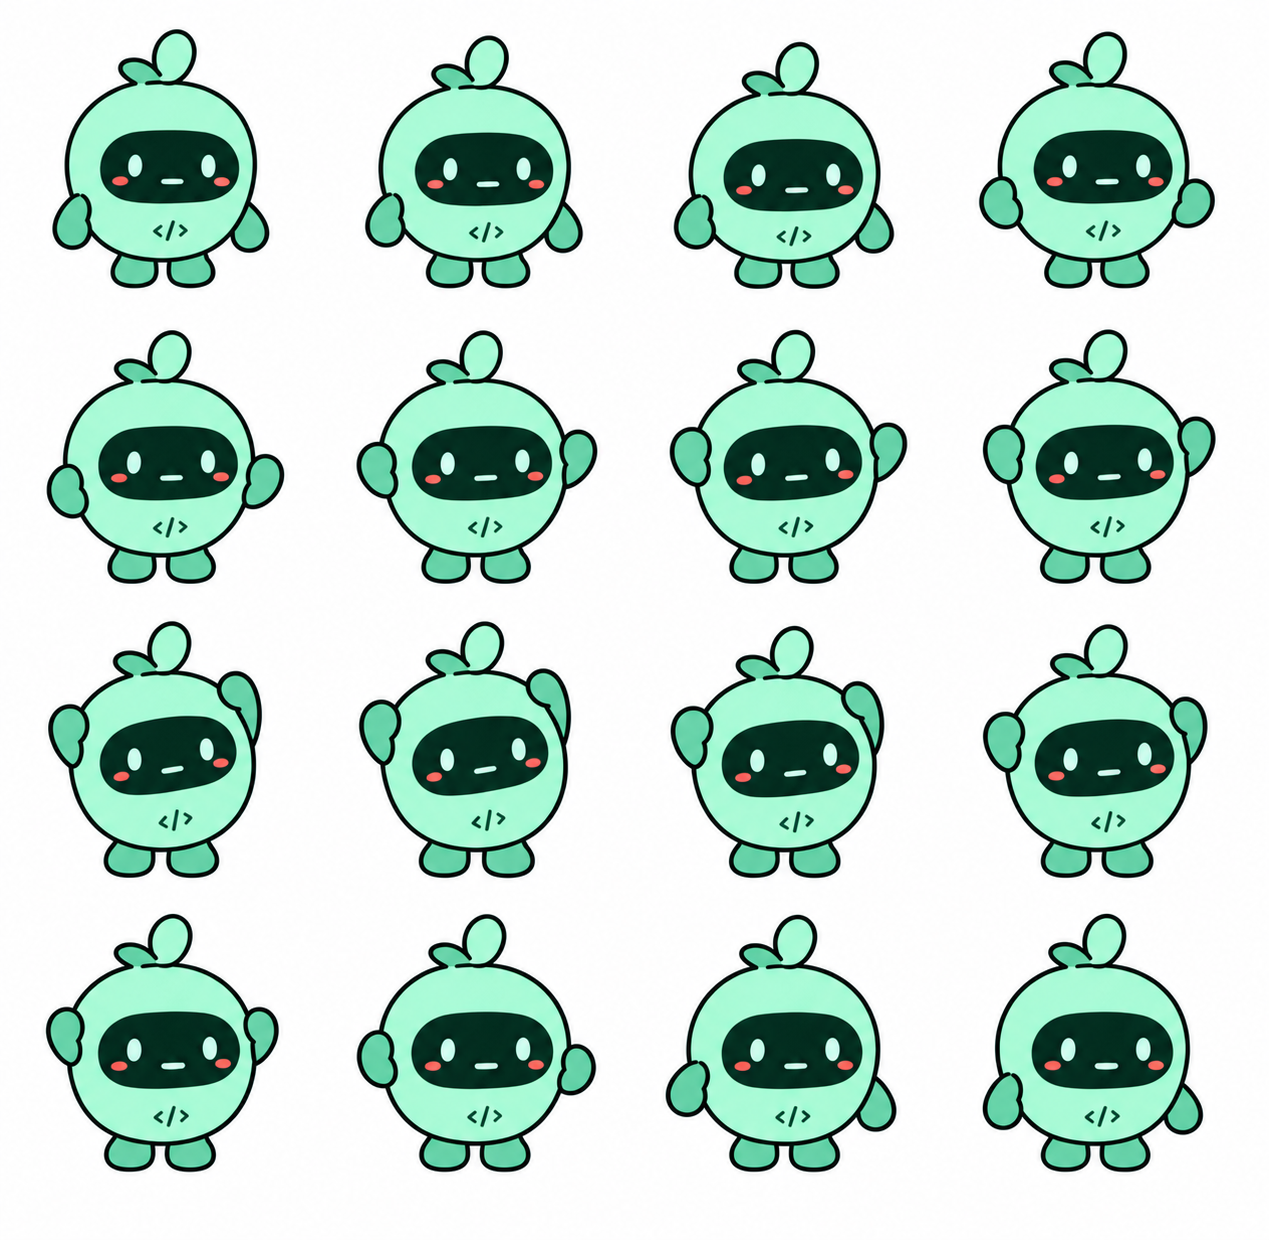
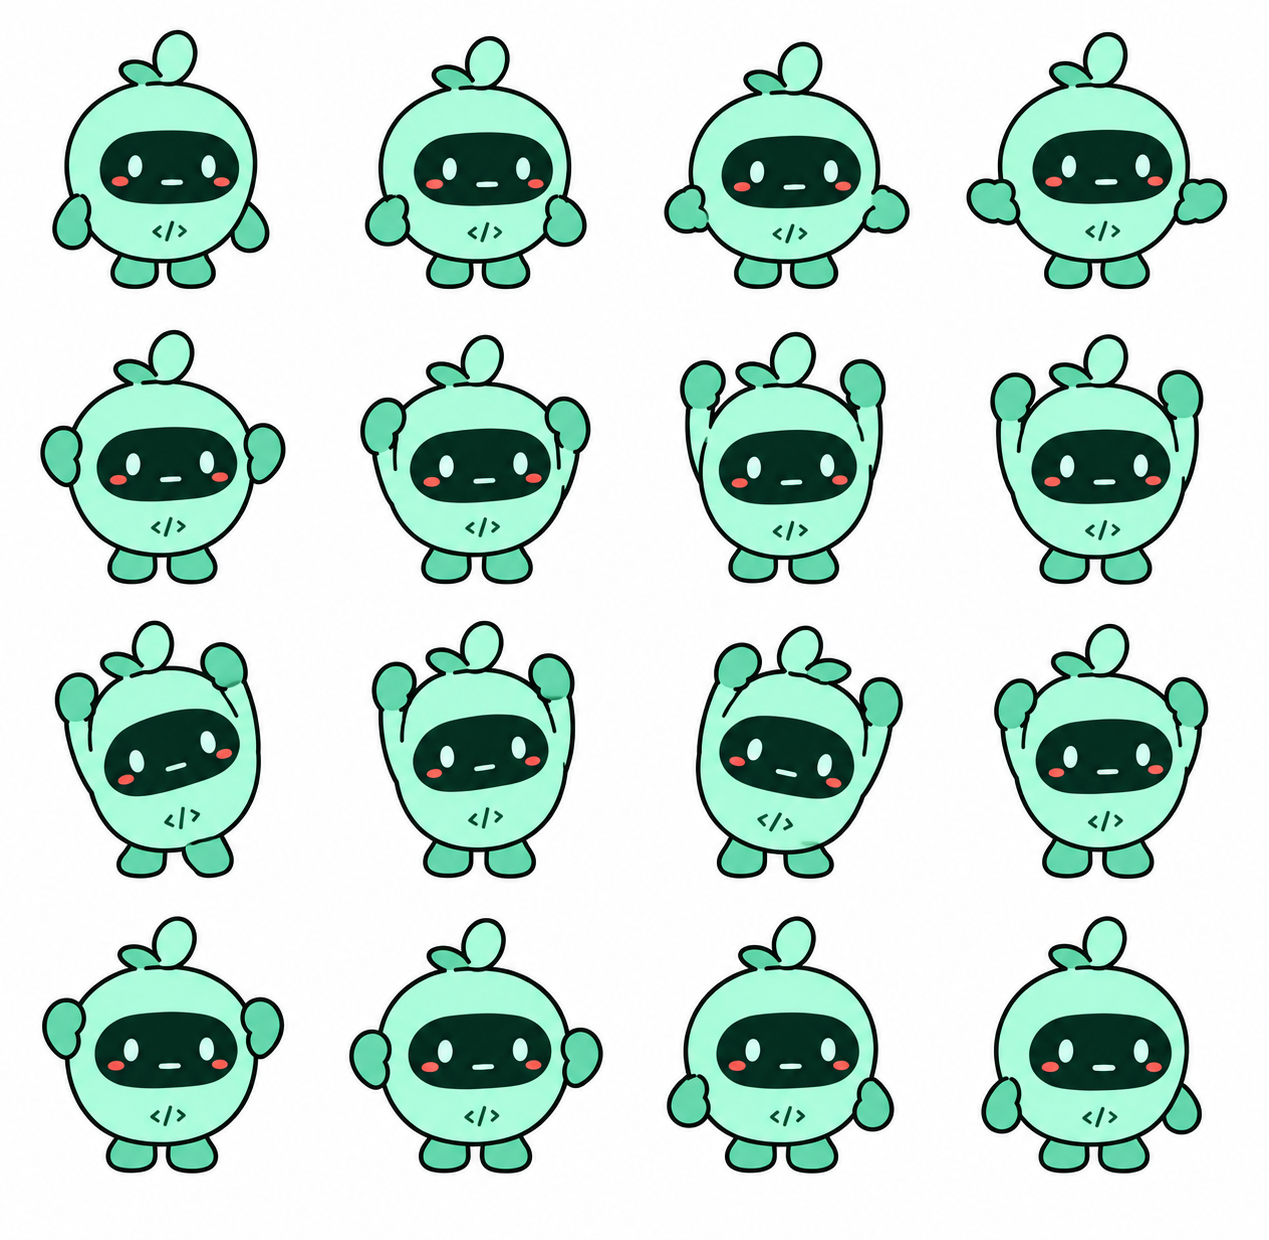
Keep complete stretch cels and integrate facial features with original panel

diff --git a/sprite-player.cs b/sprite-player.cs
@@ -55,6 +55,7 @@ public sealed class PetSpriteView : FrameworkElement
     sealed class ScreenRegion
     {
         public bool[] mask=new bool[W*H];
+        public FacePaint paint;
         public double cx,cy,c,s,left=1e6,right=-1e6,top=1e6,bottom=-1e6;
         public ScreenRegion(byte[] p)
         {
@@ -85,6 +86,7 @@ public sealed class PetSpriteView : FrameworkElement
             for(int i=0;i<mask.Length;i++)if(mask[i]){double x=i%W-cx,y=i/W-cy;xxSum+=x*x;yySum+=y*y;xySum+=x*y;}
             double angle=.5*Math.Atan2(2*xySum,xxSum-yySum);c=Math.Cos(angle);s=Math.Sin(angle);
             for(int i=0;i<mask.Length;i++)if(mask[i]){double x=i%W-cx,y=i/W-cy,u=x*c+y*s,v=-x*s+y*c;left=Math.Min(left,u);right=Math.Max(right,u);top=Math.Min(top,v);bottom=Math.Max(bottom,v);}
+            paint=new FacePaint(p,mask);
         }
         static bool Dark(byte[] p,int i){i*=4;return p[i+3]>240&&p[i]<90&&p[i+1]<105&&p[i+2]<65;}
         static double Cross(Point a,Point b,Point c){return (b.X-a.X)*(c.Y-a.Y)-(b.Y-a.Y)*(c.X-a.X);}
@@ -98,25 +100,88 @@ public sealed class PetSpriteView : FrameworkElement
             }
         }
     }
+    // Transfer only the drawn eyes, mouth, cheeks and tear. Reconstruct the
+    // original panel beneath its old marks from nearby unmarked panel pixels.
+    // The panel boundary, colour gradient and ink texture stay with the body cel.
+    sealed class FacePaint
+    {
+        int l,t,w,h;
+        public byte[] clean;
+        public bool[] ink;
+        short[] delta;
+        public FacePaint(byte[] pixels,bool[] mask){
+            int right=0,bottom=0;l=W;t=H;
+            for(int i=0;i<mask.Length;i++)if(mask[i]){l=Math.Min(l,i%W);t=Math.Min(t,i/W);right=Math.Max(right,i%W);bottom=Math.Max(bottom,i/W);}
+            w=right-l+1;h=bottom-t+1;ink=new bool[w*h];clean=new byte[w*h*3];delta=new short[w*h*3];
+            var seed=new bool[w*h];var valid=new bool[w*h];double[] average=new double[3];int count=0;
+            for(int y=0;y<h;y++)for(int x=0;x<w;x++){
+                int j=y*w+x,p=(t+y)*W+l+x;valid[j]=mask[p];
+                for(int k=0;k<3;k++)clean[j*3+k]=pixels[p*4+k];
+                if(!valid[j])continue;
+                int b=pixels[p*4],g=pixels[p*4+1],r=pixels[p*4+2];
+                seed[j]=Math.Max(b,Math.Max(g,r))>112||(r>70&&r>g*1.08);
+            }
+            int radius=Density;
+            for(int y=0;y<h;y++)for(int x=0;x<w;x++)if(seed[y*w+x])for(int dy=-radius;dy<=radius;dy++)for(int dx=-radius;dx<=radius;dx++){
+                int xx=x+dx,yy=y+dy;if(xx>=0&&xx<w&&yy>=0&&yy<h&&valid[yy*w+xx])ink[yy*w+xx]=true;
+            }
+            for(int j=0;j<valid.Length;j++)if(valid[j]&&!ink[j]){count++;for(int k=0;k<3;k++)average[k]+=clean[j*3+k];}
+            if(count==0)throw new InvalidDataException("No unmarked face panel available");
+            for(int k=0;k<3;k++)average[k]/=count;
+            int[] stepX={-1,1,0,0},stepY={0,0,-1,1};
+            for(int y=0;y<h;y++)for(int x=0;x<w;x++){
+                int j=y*w+x;if(!ink[j])continue;double weight=0;double[] tone=new double[3];
+                for(int direction=0;direction<4;direction++)for(int distance=1;;distance++){
+                    int xx=x+stepX[direction]*distance,yy=y+stepY[direction]*distance;
+                    if(xx<0||xx>=w||yy<0||yy>=h)break;int q=yy*w+xx;
+                    if(!valid[q]||ink[q])continue;
+                    double a=1.0/distance;weight+=a;for(int k=0;k<3;k++)tone[k]+=clean[q*3+k]*a;break;
+                }
+                int p=((t+y)*W+l+x)*4;int magnitude=0;
+                for(int k=0;k<3;k++){clean[j*3+k]=(byte)(weight>0?tone[k]/weight:average[k]);delta[j*3+k]=(short)(pixels[p+k]-clean[j*3+k]);magnitude=Math.Max(magnitude,Math.Abs(delta[j*3+k]));}
+                if(magnitude<8)for(int k=0;k<3;k++)delta[j*3+k]=0;
+            }
+        }
+        public void ClearMarks(byte[] result){
+            for(int y=0;y<h;y++)for(int x=0;x<w;x++){int j=y*w+x;if(!ink[j])continue;int p=((t+y)*W+l+x)*4;for(int k=0;k<3;k++)result[p+k]=(byte)Math.Min(result[p+3],clean[j*3+k]);}
+        }
+        double At(int x,int y,int channel){return x<0||y<0||x>=w||y>=h?0:delta[(y*w+x)*3+channel];}
+        public double Sample(double px,double py,int channel){
+            double x=px-l,y=py-t;int x0=(int)Math.Floor(x),y0=(int)Math.Floor(y);double fx=x-x0,fy=y-y0;
+            return At(x0,y0,channel)*(1-fx)*(1-fy)+At(x0+1,y0,channel)*fx*(1-fy)+At(x0,y0+1,channel)*(1-fx)*fy+At(x0+1,y0+1,channel)*fx*fy;
+        }
+    }
     byte[] Compose(string key,int frame)
     {
         string id=key+":"+frame+":"+expression;byte[] result;
         if(composed.TryGetValue(id,out result))return result;
-        result=(byte[])sheets[key][frame].Clone();var dst=screens[key][frame];var src=faceRegions[key][expression];var art=faceArt[key][expression];
+        result=(byte[])sheets[key][frame].Clone();var dst=screens[key][frame];var src=faceRegions[key][expression];
+        dst.paint.ClearMarks(result);
+        // One uniform fit preserves the proportions of hand-drawn features.
+        double scale=.94*Math.Min((dst.right-dst.left)/(src.right-src.left),(dst.bottom-dst.top)/(src.bottom-src.top));
         for(int i=0;i<W*H;i++)if(dst.mask[i]){
             double x=i%W-dst.cx,y=i/W-dst.cy;
-            double u=(x*dst.c+y*dst.s-dst.left)/(dst.right-dst.left),v=(-x*dst.s+y*dst.c-dst.top)/(dst.bottom-dst.top);
-            double a=src.left+u*(src.right-src.left),b=src.top+v*(src.bottom-src.top);
-            double px=Math.Max(0,Math.Min(W-1,src.cx+a*src.c-b*src.s)),py=Math.Max(0,Math.Min(H-1,src.cy+a*src.s+b*src.c));
-            if(!src.mask[(int)Math.Round(py)*W+(int)Math.Round(px)]){px=src.cx;py=Math.Max(0,Math.Min(H-1,src.cy+(src.top+.12*(src.bottom-src.top))*src.c));}
-            int x0=(int)px,y0=(int)py,x1=Math.Min(W-1,x0+1),y1=Math.Min(H-1,y0+1);double fx=px-x0,fy=py-y0;
-            for(int k=0;k<3;k++){
-                double color=art[(y0*W+x0)*4+k]*(1-fx)*(1-fy)+art[(y0*W+x1)*4+k]*fx*(1-fy)+art[(y1*W+x0)*4+k]*(1-fx)*fy+art[(y1*W+x1)*4+k]*fx*fy;
-                result[i*4+k]=(byte)Math.Min(result[i*4+3],color);
-            }
+            double a=(src.left+src.right)/2+(x*dst.c+y*dst.s-(dst.left+dst.right)/2)/scale;
+            double b=(src.top+src.bottom)/2+(-x*dst.s+y*dst.c-(dst.top+dst.bottom)/2)/scale;
+            double px=src.cx+a*src.c-b*src.s,py=src.cy+a*src.s+b*src.c;
+            for(int k=0;k<3;k++)result[i*4+k]=(byte)Math.Max(0,Math.Min(result[i*4+3],result[i*4+k]+src.paint.Sample(px,py,k)));
         }
         while(compositionOrder.Count>=48)composed.Remove(compositionOrder.Dequeue());
         composed.Add(id,result);compositionOrder.Enqueue(id);return result;
+    }
+    // Generated sheets can have uneven gutters. Cut only through clear paper
+    // near the nominal grid boundary, never through a leaf or raised hand.
+    static int[] FindCuts(int[] ink,int divisions){
+        var cuts=new int[divisions+1];cuts[divisions]=ink.Length;
+        double step=(double)ink.Length/divisions;
+        for(int n=1;n<divisions;n++){
+            int nominal=(int)Math.Round(n*step),start=(int)Math.Max(cuts[n-1]+1,nominal-step*.22),end=(int)Math.Min(ink.Length-1,nominal+step*.22);
+            int best=nominal;double score=-1e9;
+            for(int k=start;k<=end;){if(ink[k]!=0){k++;continue;}int first=k;while(k<=end&&ink[k]==0)k++;int center=(first+k-1)/2;double value=(k-first)-Math.Abs(center-nominal)*.1;if(value>score){score=value;best=center;}}
+            if(score<-1e8)throw new InvalidDataException("No clear gutter between sprite cells");
+            cuts[n]=best;
+        }
+        return cuts;
     }
     static byte[][] LoadSheet(string path,int rows=2)
     {
@@ -125,10 +190,13 @@ public sealed class PetSpriteView : FrameworkElement
         int sw=bitmap.PixelWidth,sh=bitmap.PixelHeight;
         var data=new byte[sw*sh*4];bitmap.CopyPixels(data,sw*4,0);
         var frames=new byte[rows*4][];
-        double scale=0;
+        var rowInk=new int[sh];var colInk=new int[sw];
+        for(int y=0;y<sh;y++)for(int x=0;x<sw;x++){int j=(y*sw+x)*4;int low=Math.Min(data[j],Math.Min(data[j+1],data[j+2])),high=Math.Max(data[j],Math.Max(data[j+1],data[j+2]));if(data[j+3]>24&&((low<220&&high-low>18)||low<100)){rowInk[y]++;colInk[x]++;}}
+        int[] xCuts=FindCuts(colInk,4),yCuts=FindCuts(rowInk,rows);
+        var cells=new BitmapSource[frames.Length];var bounds=new Rect[frames.Length];
         for(int i=0;i<frames.Length;i++)
         {
-            int ox=i%4*sw/4,oy=i/4*sh/rows,cw=(i%4+1)*sw/4-ox,ch=(i/4+1)*sh/rows-oy;
+            int ox=xCuts[i%4],oy=yCuts[i/4],cw=xCuts[i%4+1]-ox,ch=yCuts[i/4+1]-oy;
             var pixels=new byte[cw*ch*4];int minX=cw,minY=ch,maxX=0,maxY=0;
             for(int y=0;y<ch;y++)for(int x=0;x<cw;x++)
             {
@@ -165,21 +233,27 @@ public sealed class PetSpriteView : FrameworkElement
                 int srcOffset=((oy+y)*sw+ox+x)*4;
                 for(int k=0;k<3;k++)pixels[n*4+k]=data[srcOffset+k];pixels[n*4+3]=255;
             }
-            if(i==0)scale=Density*Math.Min(180.0/(maxY-minY+1),188.0/(maxX-minX+1));
-            var cell=BitmapSource.Create(cw,ch,96,96,PixelFormats.Pbgra32,null,pixels,cw*4);cell.Freeze();
-            var visual=new DrawingVisual();
+            cells[i]=BitmapSource.Create(cw,ch,96,96,PixelFormats.Pbgra32,null,pixels,cw*4);cells[i].Freeze();
+            bounds[i]=new Rect(minX,minY,maxX-minX+1,maxY-minY+1);
+        }
+        // Keep a single scale through the action, sized for its largest pose.
+        double scale=Density*Math.Min(180.0/bounds[0].Height,188.0/bounds[0].Width);
+        foreach(var box in bounds)scale=Math.Min(scale,Density*Math.Min(190.0/box.Height,204.0/box.Width));
+        for(int i=0;i<frames.Length;i++){
+            var box=bounds[i];var cell=cells[i];var visual=new DrawingVisual();
             RenderOptions.SetBitmapScalingMode(visual,BitmapScalingMode.HighQuality);
-            using(var dc=visual.RenderOpen())
-            {
-                // First cell fixes scale for the entire action; all cells share a foot anchor.
-                bool flip=Path.GetFileNameWithoutExtension(path)=="walk" && i>=4;
+            using(var dc=visual.RenderOpen()){
+                bool flip=Path.GetFileNameWithoutExtension(path)=="walk"&&i>=4;
                 if(flip)dc.PushTransform(new ScaleTransform(-1,1,W/2.0,0));
-                dc.DrawImage(cell,new Rect(W/2.0-(minX+maxX+1)/2.0*scale,198*Density-(maxY+1)*scale,cw*scale,ch*scale));
+                dc.DrawImage(cell,new Rect(W/2.0-(box.Left+box.Width/2)*scale,198*Density-box.Bottom*scale,cell.PixelWidth*scale,cell.PixelHeight*scale));
                 if(flip)dc.Pop();
             }
             var rendered=new RenderTargetBitmap(W,H,96,96,PixelFormats.Pbgra32);rendered.Render(visual);
             frames[i]=new byte[W*H*4];rendered.CopyPixels(frames[i],Stride,0);
         }
+        // One generated side-bend reverses the sprout orientation. Hold the
+        // preceding drawn peak for that cel instead, then lower the arms.
+        if(Path.GetFileNameWithoutExtension(path)=="stretch"&&frames.Length==16)frames[10]=frames[9];
         return frames;
     }
     public void SetFrame(string key,double frame,bool mirror,double now,double transitionSeconds,double breathing,int alternate,double mix)

diff --git a/launcher.cs b/launcher.cs
@@ -8,8 +8,8 @@ using System.Windows.Forms;
 
 [assembly: AssemblyTitle("Codex Usage Pet")]
 [assembly: AssemblyDescription("Animated desktop companion with Codex quota expressions")]
-[assembly: AssemblyVersion("2.1.1.0")]
-[assembly: AssemblyFileVersion("2.1.1.0")]
+[assembly: AssemblyVersion("2.1.2.0")]
+[assembly: AssemblyFileVersion("2.1.2.0")]
 internal static class Launcher
 {
     [STAThread]
@@ -22,15 +22,18 @@ internal static class Launcher
             if (!first) return 0;
             try
             {
-                string root = Path.Combine(Environment.GetFolderPath(Environment.SpecialFolder.LocalApplicationData), "CodexUsagePet", "2.1.1");
+                string root = Path.Combine(Environment.GetFolderPath(Environment.SpecialFolder.LocalApplicationData), "CodexUsagePet", "2.1.2");
                 Directory.CreateDirectory(root);
-                string previous = Path.Combine(Environment.GetFolderPath(Environment.SpecialFolder.LocalApplicationData), "CodexUsagePet", "2.1.0");
                 if (!smoke)
                 {
                     foreach (string name in new[] { "settings.json", "preferences.json" })
                     {
-                        string oldFile = Path.Combine(previous, name);
-                        if (!File.Exists(oldFile)) oldFile = Path.Combine(Environment.GetFolderPath(Environment.SpecialFolder.LocalApplicationData), "CodexUsagePet", "2.0.0", name);
+                        string oldFile = "";
+                        foreach (string version in new[] { "2.1.1", "2.1.0", "2.0.0", "1.3.1" })
+                        {
+                            string candidate = Path.Combine(Environment.GetFolderPath(Environment.SpecialFolder.LocalApplicationData), "CodexUsagePet", version, name);
+                            if (File.Exists(candidate)) { oldFile = candidate; break; }
+                        }
                         string newFile = Path.Combine(root, name);
                         if (!File.Exists(newFile) && File.Exists(oldFile)) File.Copy(oldFile, newFile);
                     }

diff --git a/README.md b/README.md
@@ -4,15 +4,15 @@
 
 ![手绘风格码团，额度为演示数据](preview.png)
 
-## v2.1.1：轮廓修复与清晰度改善
+## v2.1.2：完整叶片、自然表情与舒展动作
 
-修复躺下时换表情造成的叶片／身体轮廓缺口，并提高所有动作的内部渲染精度和缩放质量。保持原版手绘素材与姿势。
+修复伸懒腰时叶尖被切图截断的问题，补画双手举高与轻轻侧伸的姿势。顶点停留比例可在设置中调整，默认占整段动作的 18%。表情保留身体原有面板的底色和纹理，只替换五官，减少整块脸贴上去的感觉。
 
 挥手和伸懒腰各增加到 16 帧，其余动作保留原版 8 帧，共 72 张身体动作帧。角色继续使用完整手绘风格图片播放。素材由内置 imagegen 生成，不是人工手绘或 Canva 导出的作品。
 
 走路、坐下、躺下、伸懒腰、挥手和缩团均能保持当前额度表情。新画的动作专属表情匹配每帧的脸部方向，眨眼独立触发，睡觉使用当前情绪的闭眼版本。详见 [更新日志](CHANGELOG.md)。
 
-[查看 v2.1.1 实际渲染效果：全部动作与四种情绪](preview-actions-v2.1.1.png)
+[查看新版伸懒腰逐帧效果](preview-stretch-v2.1.2.png) · [全部动作与四种额度表情](preview-actions-v2.1.2.png)
 
 动作之间保留可配置短过渡；坐下、躺下仍有进入、停留和起身过程，散步会在桌面真实移动。图稿存在轻微逐帧线条变化。
 
@@ -31,7 +31,7 @@
 - 默认空闲 **15 秒**后收起手脚和额度面板，缩至正常大小的 **42%**。鼠标移入、有效额度变化或动作开始时展开；至少保持 **8 秒**。
 - 额度决定各动作与缩团中的情绪；眨眼和动作分别控制，睡觉保留当前情绪的闭眼版本。
 
-v2.1 解压到 `%LOCALAPPDATA%\CodexUsagePet\2.1.1`，首次运行优先迁移 v2.1.0（没有则读取 v2.0.0） 的位置、大小、频率等适用设置。重复启动 EXE 不会重复创建宠物。退出后删除 EXE 和对应版本目录即可卸载；没有开机自启。
+v2.1 解压到 `%LOCALAPPDATA%\CodexUsagePet\2.1.2`，首次运行优先迁移 v2.1.1，并按版本顺序回退查找旧设置 的位置、大小、频率等适用设置。重复启动 EXE 不会重复创建宠物。退出后删除 EXE 和对应版本目录即可卸载；没有开机自启。
 
 `preferences.json` 保存外观和行为偏好，`settings.json` 保存位置；设置保存后立即生效，取消不应用修改。支持恢复默认，最小/最大值及刷新/过期时间有输入校验。手绘版移除了旧版逐个控制关节、叶片和视线的几何参数，动作形状由图稿决定；保留时长、间隔、概率、步距、短过渡、呼吸、眨眼、字体、大小、透明度、气泡和专注时长等有效设置。
 

diff --git a/assets/flat/README.md b/assets/flat/README.md
@@ -31,3 +31,10 @@ These additions supersede the old statement above that expressions apply only in
 ## v2.1.1 rendering fix
 
 Original PNGs remain unchanged. Panel detection now isolates the thick face core before filling its convex boundary, preventing a touching body outline in the sleep cels from becoming part of the face. The backing buffer is 440×420 while the logical pet stays 220×210, with high-quality raster scaling and a 48-entry composition cache. `PixelWidth` / `PixelHeight` describe the buffer returned by `GetPixels()`.
+
+
+## v2.1.2 stretch and expression integration
+
+The stretch sheet was redrawn with built-in imagegen using the v2.1.1 sheet as reference. Prompt: preserve the exact flat mint character and both leaves; draw a 4×4 sequence with connected short arms unfolding and reaching above the head, a restrained side stretch, and gradual lowering; whole cels, consistent ground baseline, no cutout rig or 3D. The generated side-bend at index 10 reverses sprout orientation and is not used; the runtime holds index 9 in that slot. The configurable peak pause is defined independently in the motion timeline.
+
+Sheets are split at clear gutters near their nominal grid boundaries. All cels share a scale constrained by the largest pose so extremities remain on canvas. Expression integration now reconstructs only the original feature marks using nearby panel colour, then transfers drawn feature colour differences with a uniform fit. The original panel edge, tone and texture remain attached to the body. No new character geometry is drawn by the player.

diff --git a/CHANGELOG.md b/CHANGELOG.md
@@ -1,5 +1,14 @@
 # 更新日志
 
+## v2.1.2 — 2026-09-11
+
+- 修复伸懒腰末段叶片被截断：切图按实际留白分隔，并按照整段动作的最大姿势预留边距。
+- 补画更加舒展的抬臂和侧伸姿势，双手抬过头顶，随后放松收回；剔除一张叶片方向不一致的侧倾姿势，改为延续上一张顶点姿势。
+- 新增“伸展顶点停留（时长占比 %）”设置，默认 18%，可在 0–40% 调整，整段时长仍由伸懒腰时长控制。
+- 改善表情贴图感：保留原帧面板的轮廓、底色和纹理，仅替换眼睛、嘴、腮红与泪滴；五官等比贴合，避免拉宽或拉扁。
+- 保持 440×420 内部渲染与全部动作的额度表情；新增不等高分格、画布边距、面板纹理保留及顶点停留检查。
+- 首次启动按版本顺序迁移已有设置，优先读取 v2.1.1。
+
 ## v2.1.1 — 2026-09-11
 
 - 修复躺下时面部深色区域与身体轮廓相连、导致换表情误改叶片和身体边缘的问题，消除这一姿势的断线和缺口。
